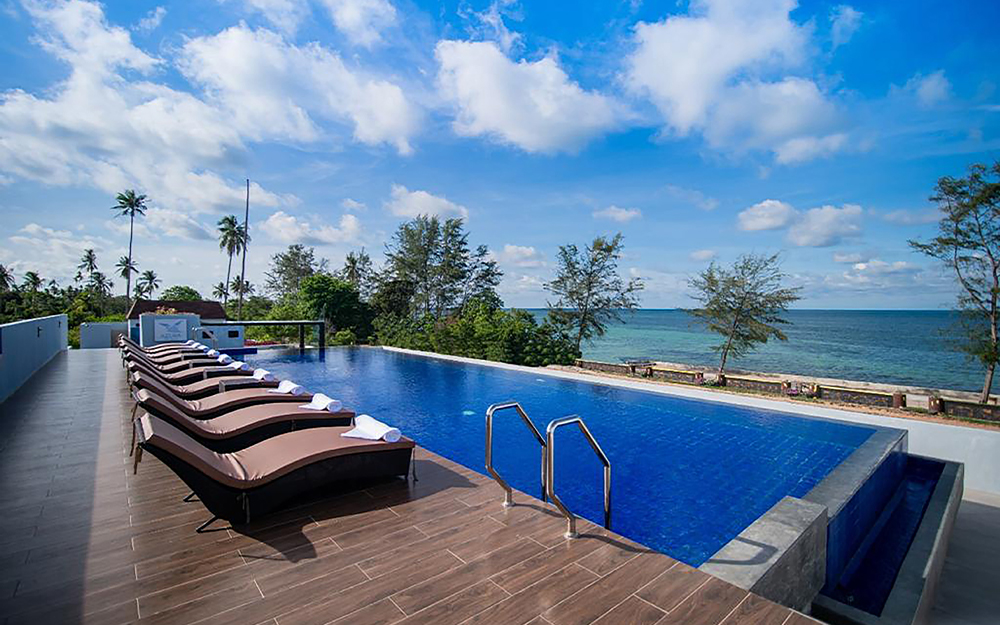
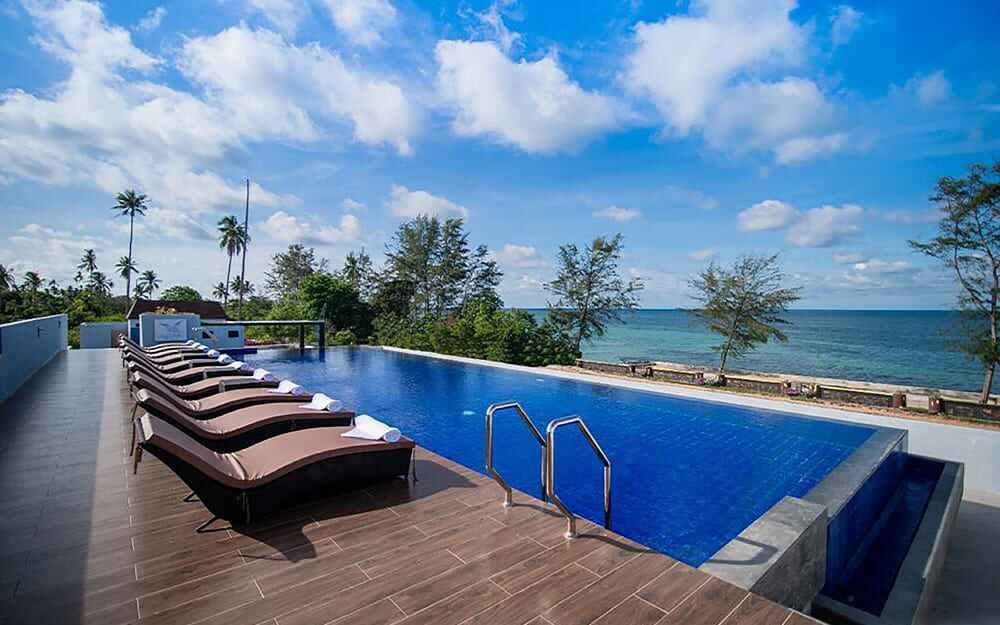
update comspress image & js index

diff --git a/index.html b/index.html
@@ -12,23 +12,23 @@
     
     <!-- Favicons-->
     <link rel="icon" type="image/png" sizes="16x16"  href="/img/favicon-16x16.png">
-    <link rel="apple-touch-icon" type="image/x-icon" href="img/apple-touch-icon-57x57.png">
-    <link rel="apple-touch-icon" type="image/x-icon" sizes="72x72" href="img/apple-touch-icon-72x72.png">
-    <link rel="apple-touch-icon" type="image/x-icon" sizes="114x114" href="img/apple-touch-icon-114x114.png">
-    <link rel="apple-touch-icon" type="image/x-icon" sizes="144x144" href="img/apple-touch-icon-114x114.png">
+    <link defer async rel="apple-touch-icon" type="image/x-icon" href="img/apple-touch-icon-57x57.png">
+    <link defer async rel="apple-touch-icon" type="image/x-icon" sizes="72x72" href="img/apple-touch-icon-72x72.png">
+    <link defer async rel="apple-touch-icon" type="image/x-icon" sizes="114x114" href="img/apple-touch-icon-114x114.png">
+    <link defer async rel="apple-touch-icon" type="image/x-icon" sizes="144x144" href="img/apple-touch-icon-114x114.png">
 
     <!-- GOOGLE WEB FONT-->
-    <link rel="preconnect" href="https://fonts.googleapis.com">
-    <link rel="preconnect" href="https://fonts.gstatic.com" crossorigin>
-    <link href="https://fonts.googleapis.com/css2?family=Caveat:wght@400;500&family=Montserrat:wght@300;400;500;600;700&display=swap" rel="stylesheet">
+    <link defer async rel="preconnect" href="https://fonts.googleapis.com">
+    <link defer async rel="preconnect" href="https://fonts.gstatic.com" crossorigin>
+    <link defer async href="https://fonts.googleapis.com/css2?family=Caveat:wght@400;500&family=Montserrat:wght@300;400;500;600;700&display=swap" rel="stylesheet">
 
     <!-- BASE CSS -->
-    <link href="css/bootstrap.min.css" rel="stylesheet">
-    <link href="css/style.css" rel="stylesheet">
-	<link href="css/vendors.min.css" rel="stylesheet">
+    <link defer async href="css/bootstrap.min.css" rel="stylesheet">
+    <link defer async href="css/style.css" rel="stylesheet">
+	<link defer async href="css/vendors.min.css" rel="stylesheet">
 
     <!-- YOUR CUSTOM CSS -->
-    <link href="css/custom.css" rel="stylesheet">
+    <link defer async href="css/custom.css" rel="stylesheet">
     
 </head>
 
